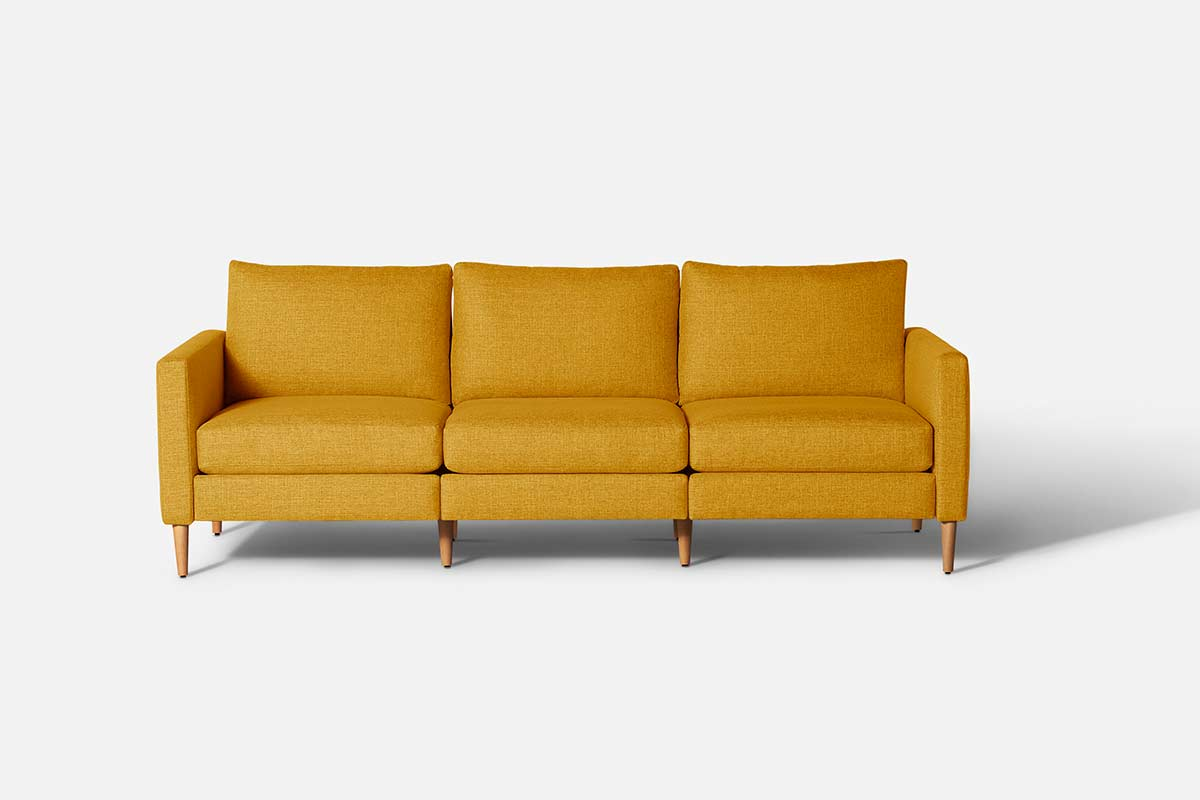
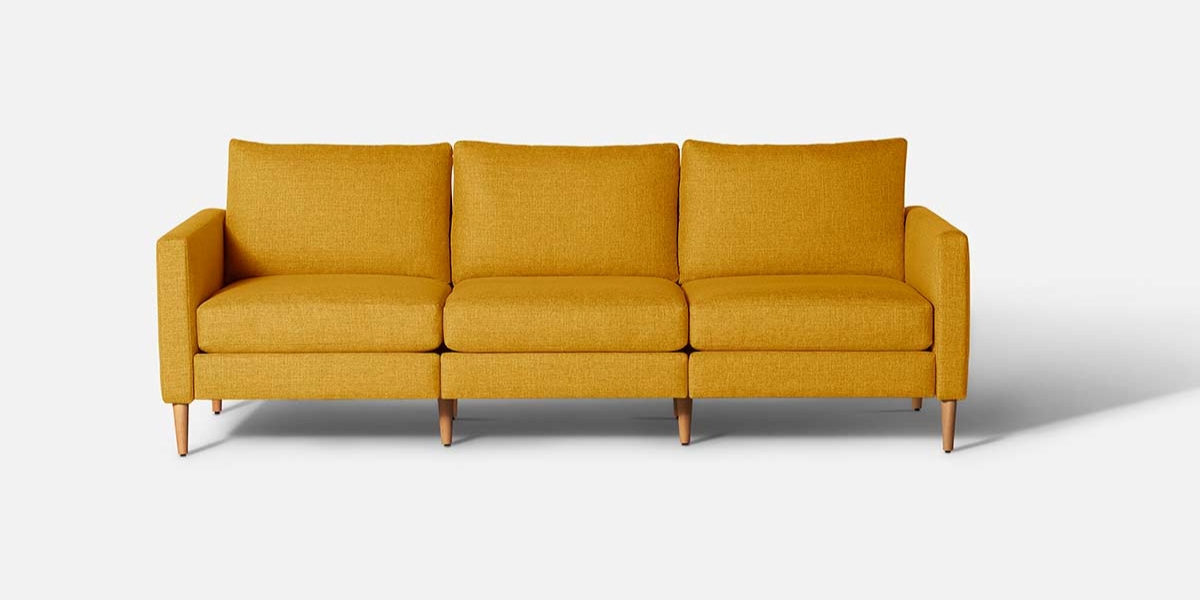
update images

diff --git a/src/App.vue b/src/App.vue
@@ -17,7 +17,7 @@
 <style lang="scss">
   @import url('https://fonts.googleapis.com/css2?family=Bungee&display=swap');
   * {
-    background-color: #E5E5E5;
+    background-color: #F2F2F2;
     box-sizing: border-box;
     margin:0;
     padding:0;

diff --git a/src/components/style/singleItem.scss b/src/components/style/singleItem.scss
@@ -104,7 +104,9 @@
 
   #sofa-preview {
     img {
-      max-width: 1200px;
+      object-fit: cover;
+      width:100%;
+      height:60%;
     }
   }
 
